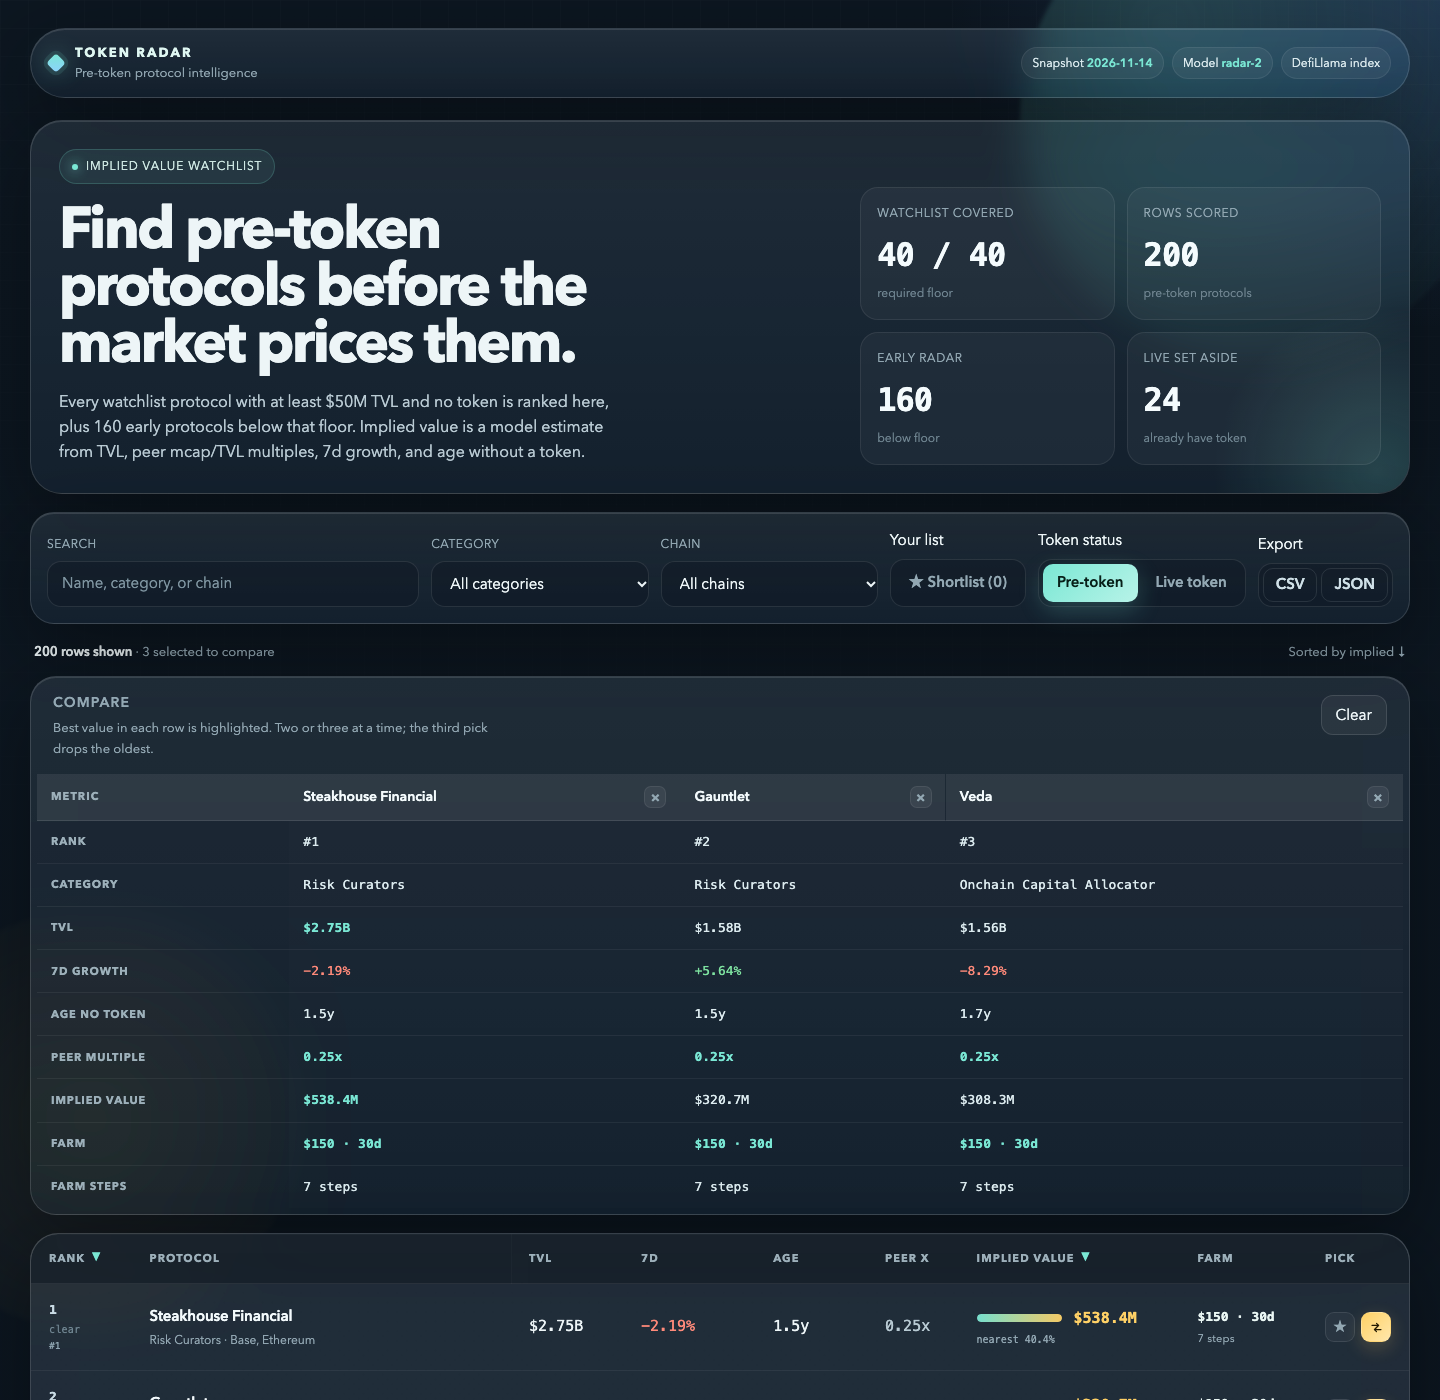
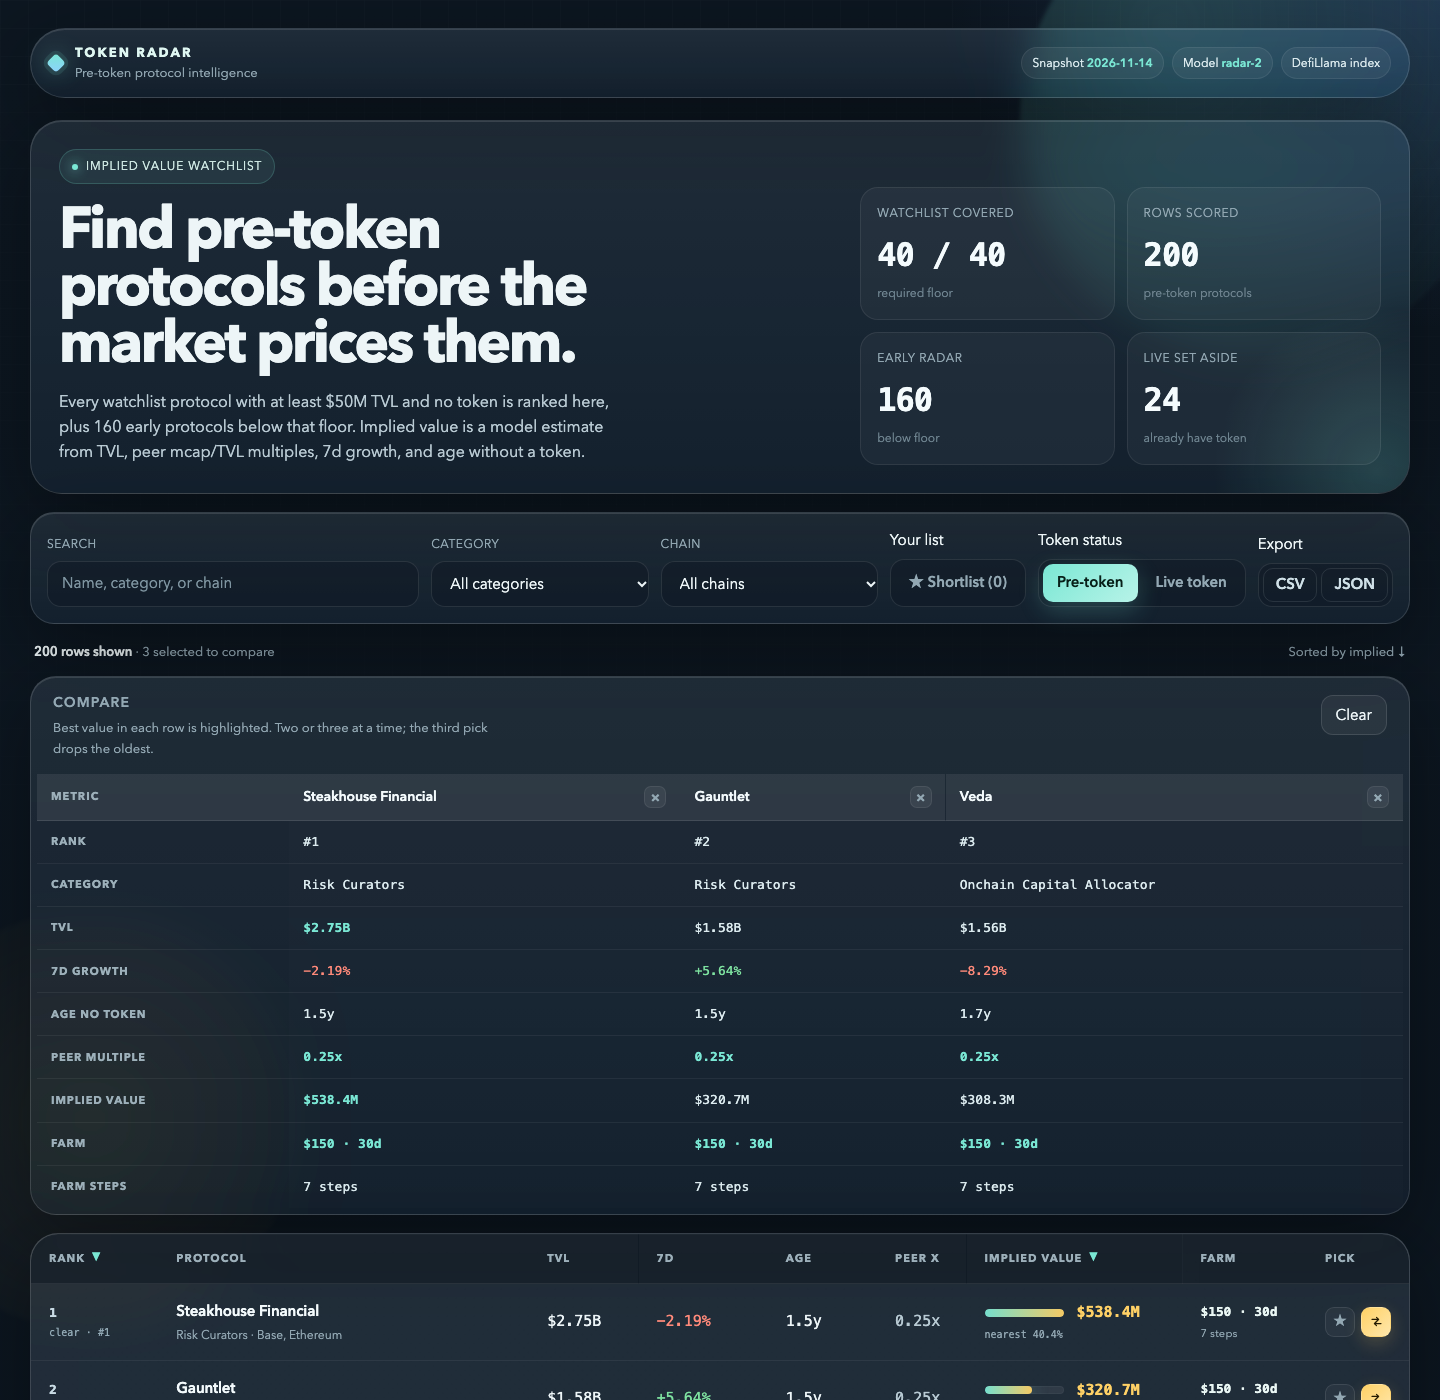
Fold the close count into the rank range line.
The rank cell keeps its number and one range line ("1 · #2-3", "clear · #1"), so a second line no longer appears under the rank; the tooltip and the Rank trust section still carry the full "N other rows sit within +/-5%" wording.

diff --git a/dashboard/app.js b/dashboard/app.js
@@ -661,14 +661,11 @@
           el('div', { class: 'rank-wrap' },
             el('b', { text: String(r.rank) }),
             el('span', {
-              class: 'rank-near',
-              title: near + ' other rows sit within \u00b15% of this implied value',
-              text: near === 0 ? 'clear' : near + ' close'
-            }),
-            el('span', {
               class: 'rank-band',
-              title: 'Rank range if this implied value moved \u00b15%',
-              text: ranks.best === ranks.worst ? '#' + ranks.best : '#' + ranks.best + '\u2013' + ranks.worst
+              title: (near === 0
+                ? 'No other row sits within \u00b15% of this implied value'
+                : near + ' other rows sit within \u00b15% of this implied value') + '. Rank range if this implied value moved \u00b15%: ' + (ranks.best === ranks.worst ? '#' + ranks.best : '#' + ranks.best + '\u2013' + ranks.worst) + '.',
+              text: (near === 0 ? 'clear' : String(near)) + ' · ' + (ranks.best === ranks.worst ? '#' + ranks.best : '#' + ranks.best + '\u2013' + ranks.worst)
             })
           )
         ),

diff --git a/dashboard/app.css b/dashboard/app.css
@@ -210,8 +210,7 @@ tbody tr:last-child td { border-bottom: 0; }
 .rank-cell { color: #c9dbe4; font-size: 13px; }
 .rank-wrap { display: grid; gap: 2px; }
 .rank-wrap b { font-weight: 550; }
-.rank-near { font-size: 10px; letter-spacing: 0.02em; color: var(--dim); white-space: nowrap; }
-.rank-band { font-family: var(--font-num); font-size: 9.5px; color: #8fa6b2; white-space: nowrap; }
+.rank-band { font-family: var(--font-num); font-size: 10px; letter-spacing: 0.01em; color: #93aab6; white-space: nowrap; }
 .name-cell { display: grid; gap: 4px; min-width: 180px; }
 .name-cell b { font-size: 15px; font-weight: 600; letter-spacing: -0.01em; color: #f3fafc; }
 .name-cell span { font-size: 12px; color: var(--muted); line-height: 1.4; }
@@ -474,7 +473,7 @@ tbody tr.row-in { animation: rowIn 340ms cubic-bezier(0.2, 0.7, 0.3, 1) both; }
   .farm-cell b { font-size: 12px; }
   .farm-cell span { font-size: 11px; }
   .rank-cell { width: 56px; }
-  .rank-near { font-size: 9px; }
+  .rank-band { font-size: 9px; }
 }
 @media (max-width: 1080px) {
   .hero { grid-template-columns: 1fr; }

diff --git a/dashboard/index.html b/dashboard/index.html
@@ -5,7 +5,7 @@
 <meta name="viewport" content="width=device-width, initial-scale=1">
 <meta name="color-scheme" content="dark">
 <title>Token Radar: pre-token protocols ranked by implied value</title>
-<link rel="stylesheet" href="app.css?v=11">
+<link rel="stylesheet" href="app.css?v=12">
 </head>
 <body>
 <a class="skip" href="#board">Skip to the board</a>
@@ -16,6 +16,6 @@
 </div>
 <main id="board" tabindex="-1" aria-busy="true"></main>
 <script src="../data.js?v=4"></script>
-<script src="app.js?v=14"></script>
+<script src="app.js?v=15"></script>
 </body>
 </html>
